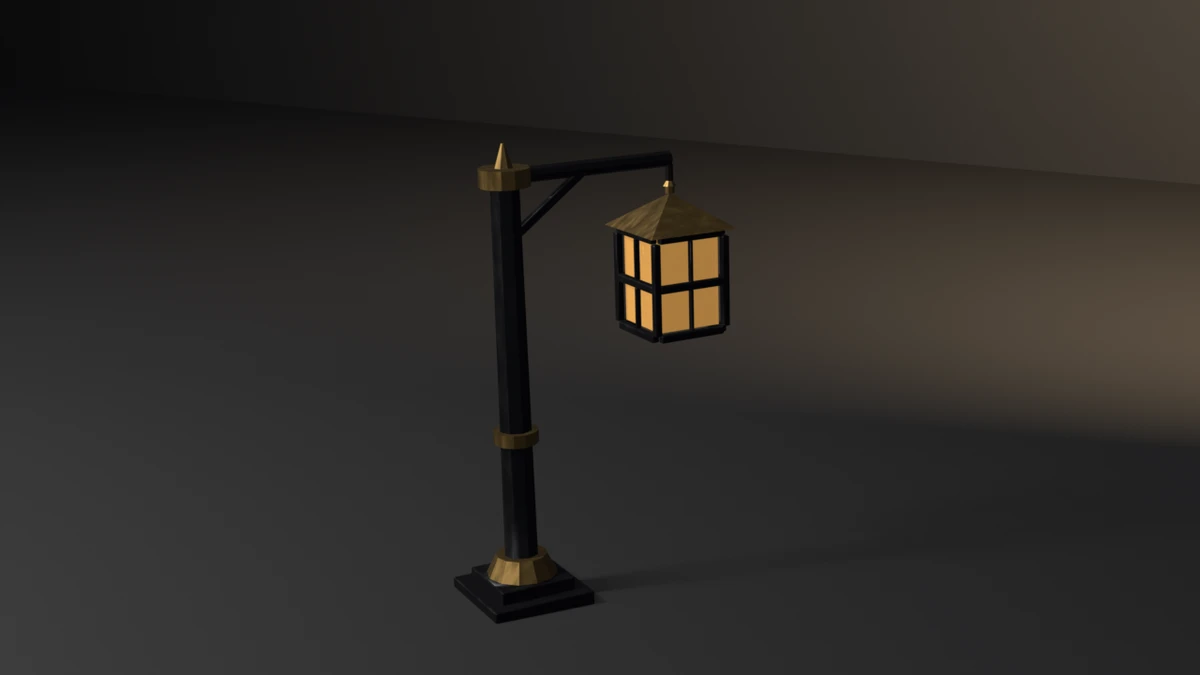
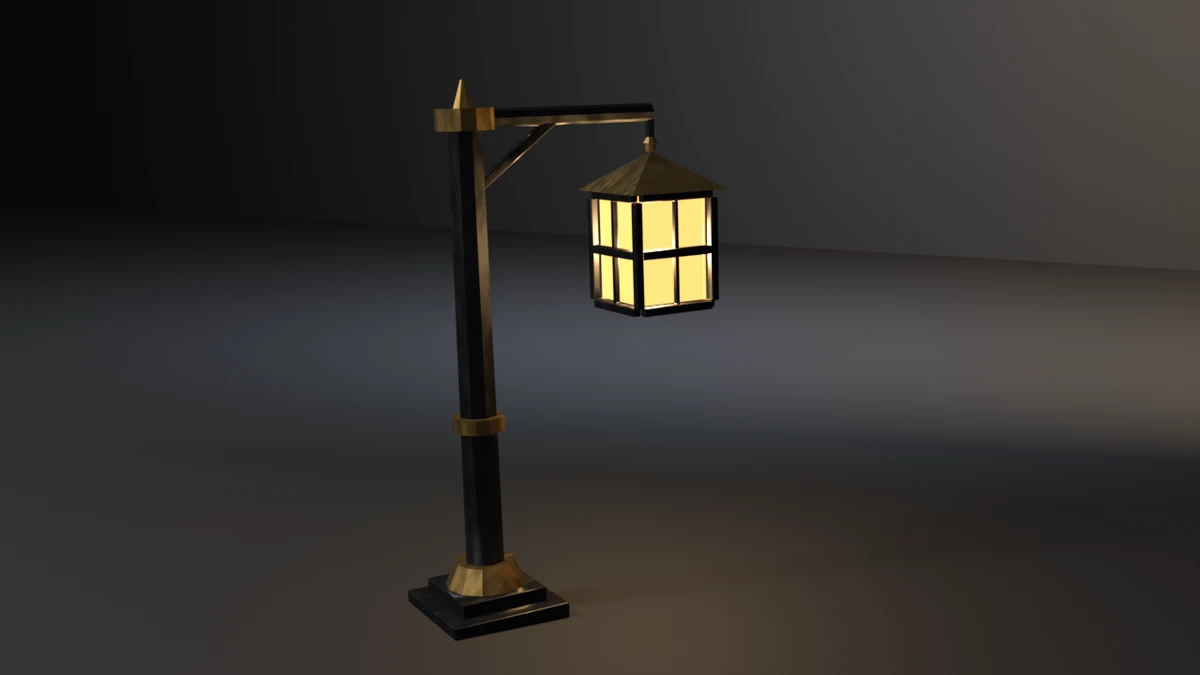
fix(showcase): light street-lantern from inside and frame it larger
The hero lantern was an unlit amber box small in a mostly empty frame.
The render path now puts a shadowless warm point light at the centroid of
the glass faces and raises the pane emission to 1.6, so the lantern throws
its glow onto the post, arm and floor. It also adds a cool rim light and
moves the camera closer and lower on a 40 mm lens. Geometry, budgets and
checks are unchanged. Also adds asset_sheet.py SELECT rows for
street-lantern, hand-pump and anvil, none of which had one.

Evidence (live runs, local; E:\Blender-Developer-Tools\.scratch binaries):
- blender-5.2.1-windows-x64 (Blender 5.2.1 LTS) and
  blender-4.5.11-windows-x64 (Blender 4.5.11 LTS): default exit 0 on
  both. Falsifiers on both: --skip-decimate 9, --stray-vert 15,
  --lift-z 16, --float-brace 17, --sink-arm 18, --rake-post 19,
  --shallow-brace 20. collider_tris=78 on both.
- Framing (5.2.1): fill x=0.259 y=0.839, margins l=0.341 r=0.400
  b=0.044 t=0.117.
- Contact sheet: luma 0.195, stage 0.183, warmth +0.010, sat 0.109.
- Asset sheet (docs/gallery/asset-sheets/street-lantern.webp): the model
  is unchanged and remains among the plainest in the lineup at sheet
  scale. This commit only fixes the hero; model detail is a follow-up.

Changed region(s): [[0.2775, 0.1244, 0.8942, 1.0], [0.6475, 0.2178, 1.0, 0.28], [0.925, 0.3733, 1.0, 0.4356]]

diff --git a/showcase/street-lantern/street_lantern.py b/showcase/street-lantern/street_lantern.py
@@ -639,7 +639,7 @@ def lantern_materials():
         (0.62, 0.32, 0.08, 1.0),
         0.0,
         0.22,
-        emission=((0.85, 0.42, 0.10, 1.0), 0.45),
+        emission=((0.95, 0.50, 0.14, 1.0), 1.6),
     )
     brass = principled("LanternBrass", (0.44, 0.29, 0.10, 1.0), 0.9, 0.44, roughness_var=0.14)
     return metal, glass, brass
@@ -1363,17 +1363,37 @@ def render_still(low, metal, tex, path, engine):
         ob.rotation_euler = tuple(math.radians(a) for a in rot)
         scene.collection.objects.link(ob)
 
-    light("Key", (-3.6, -5.0, 5.8), 680.0, 4.0, (1.0, 0.94, 0.86), (50, 0, -36))
-    light("Fill", (5.0, -3.6, 2.6), 48.0, 8.0, (0.72, 0.82, 1.0), (62, 0, 50))
-    light("Wedge", (2.4, 4.2, 4.1), 640.0, 5.5, (1.0, 0.70, 0.40), (-70, 0, 198))
+    light("Key", (-3.6, -5.0, 5.8), 520.0, 3.0, (1.0, 0.94, 0.86), (50, 0, -36))
+    light("Fill", (5.0, -3.6, 2.6), 40.0, 8.0, (0.72, 0.82, 1.0), (62, 0, 50))
+    light("Rim", (-1.5, 3.0, 3.2), 160.0, 2.5, (0.62, 0.78, 1.0), (-55, 0, 200))
+    light("Wedge", (2.4, 4.2, 4.1), 520.0, 5.5, (1.0, 0.70, 0.40), (-70, 0, 198))
+
+    # the lit lamp: a warm, shadowless point at the centre of the glazing,
+    # so the cage throws its glow onto the post, the arm and the floor
+    bpy.context.view_layer.update()
+    me = low.data
+    glass_pts = [me.vertices[vi].co for p in me.polygons if p.material_index == GLASS_IDX
+                 for vi in p.vertices]
+    if glass_pts:
+        centre = sum(glass_pts, Vector()) / len(glass_pts)
+        ld = bpy.data.lights.new("Lamp", "POINT")
+        ld.energy = 22.0
+        ld.color = (1.0, 0.58, 0.22)
+        ld.shadow_soft_size = 0.05
+        ld.use_shadow = False
+        lob = bpy.data.objects.new("Lamp", ld)
+        lob.location = low.matrix_world @ centre
+        scene.collection.objects.link(lob)
 
     cam_data = bpy.data.cameras.new("Cam")
-    cam_data.lens = 50.0
+    cam_data.lens = 40.0
     cam = bpy.data.objects.new("Cam", cam_data)
-    cam.location = (2.55, -3.70, 1.85)
+    # closer and lower than the first hero, which left the lantern small in
+    # a mostly empty frame; the wider lens keeps the foot in shot
+    cam.location = (1.80, -2.70, 1.20)
     scene.collection.objects.link(cam)
     aim = bpy.data.objects.new("Aim", None)
-    aim.location = (0.0, 0.0, 0.72)
+    aim.location = (0.0, 0.12, 0.64)
     scene.collection.objects.link(aim)
     con = cam.constraints.new("TRACK_TO")
     con.target = aim

diff --git a/scripts/asset_sheet.py b/scripts/asset_sheet.py
@@ -67,6 +67,9 @@ SELECT = {
     "grain-sacks": (r"^SacksLow$", None),
     "rope-bridge": (r"^BridgeLow$", None),
     "wheelbarrow": (r"^BarrowLow$", None),
+    "street-lantern": (r"^LanternLow$", None),
+    "hand-pump": (r"^HandPumpLow$", None),
+    "anvil": (r"^AnvilLow$", None),
     # the hero shows a three-section run; the sheet judges the one asset
     "fence-kit": (r"^FenceLow$", None),
     "wooden-ladder": (r"^LadderLow$", None),

diff --git a/README.md b/README.md
@@ -114,7 +114,7 @@ Budget-conformance props. Not examples. Conventions: [`showcase/README.md`](show
   <a href="showcase/wooden-barrel/"><img src="showcase/wooden-barrel/preview.webp" width="24%" alt="Wooden barrel: a 20-stave wine-cask with a head of four boards, chord-lofted iron hoops, and a bung on a dark studio floor" /></a>
   <a href="showcase/campfire/"><img src="showcase/campfire/preview.webp" width="24%" alt="Campfire: a two-course ring of rounded fieldstones around a tripod of logs and glowing ash on a dark studio floor, warm wedge on the back wall" /></a>
   <a href="showcase/market-stall/"><img src="showcase/market-stall/preview.webp" width="24%" alt="Market stall: a grained timber frame with post feet, diagonal side braces, slatted counter, rafters, and a striped canvas awning on a dark studio floor, warm wedge on the back wall" /></a>
-  <a href="showcase/street-lantern/"><img src="showcase/street-lantern/preview.webp" width="24%" alt="Street lantern: an iron post with aged brass collars, a knee brace tenoned into post and arm, and a muntined amber cage on a dark studio floor" /></a>
+  <a href="showcase/street-lantern/"><img src="showcase/street-lantern/preview.webp" width="24%" alt="Street lantern: an iron post with aged brass collars, a knee brace tenoned into post and arm, and a lit muntined amber cage glowing onto the post on a dark studio floor" /></a>
   <a href="showcase/treasure-chest/"><img src="showcase/treasure-chest/preview.webp" width="24%" alt="Treasure chest: a slatted wooden chest with iron bands, corner brackets, and an open lid on a dark studio floor" /></a>
   <a href="showcase/terrain-scatter/"><img src="showcase/terrain-scatter/preview.webp" width="24%" alt="Terrain scatter: a Geometry Nodes hill tile of patchy grass over dark earth, nine faceted stones sunk into it among grass tufts and pebbles, on a dark studio floor" /></a>
   <a href="showcase/fence-kit/"><img src="showcase/fence-kit/preview.webp" width="24%" alt="Fence kit: a run of three weathered post-and-rail sections on a packed-earth strip, joined post to post at the 1.60 m tile pitch, with pyramidal caps, diagonal board braces, and iron bands" /></a>

diff --git a/showcase/street-lantern/README.md b/showcase/street-lantern/README.md
@@ -24,6 +24,12 @@ the arm's centre-line side, and the brace-bite budget below asserts
 that each end is actually inside its host. Brass is aged and rougher
 (it was bright polished gold at roughness 0.28).
 
+The hero is lit from inside: a shadowless warm point light sits at the
+centroid of the glass faces and the panes emit at 1.6, so the lantern
+throws its glow onto the post, arm and floor. The camera is closer and
+lower on a 40 mm lens; the first hero left the lantern small in an
+empty frame. Render path only; geometry and budgets are unchanged.
+
 It asserts **budget conformance** of the generated result. It does not
 witness an API contract. "It rendered without error" is not a check.
 
